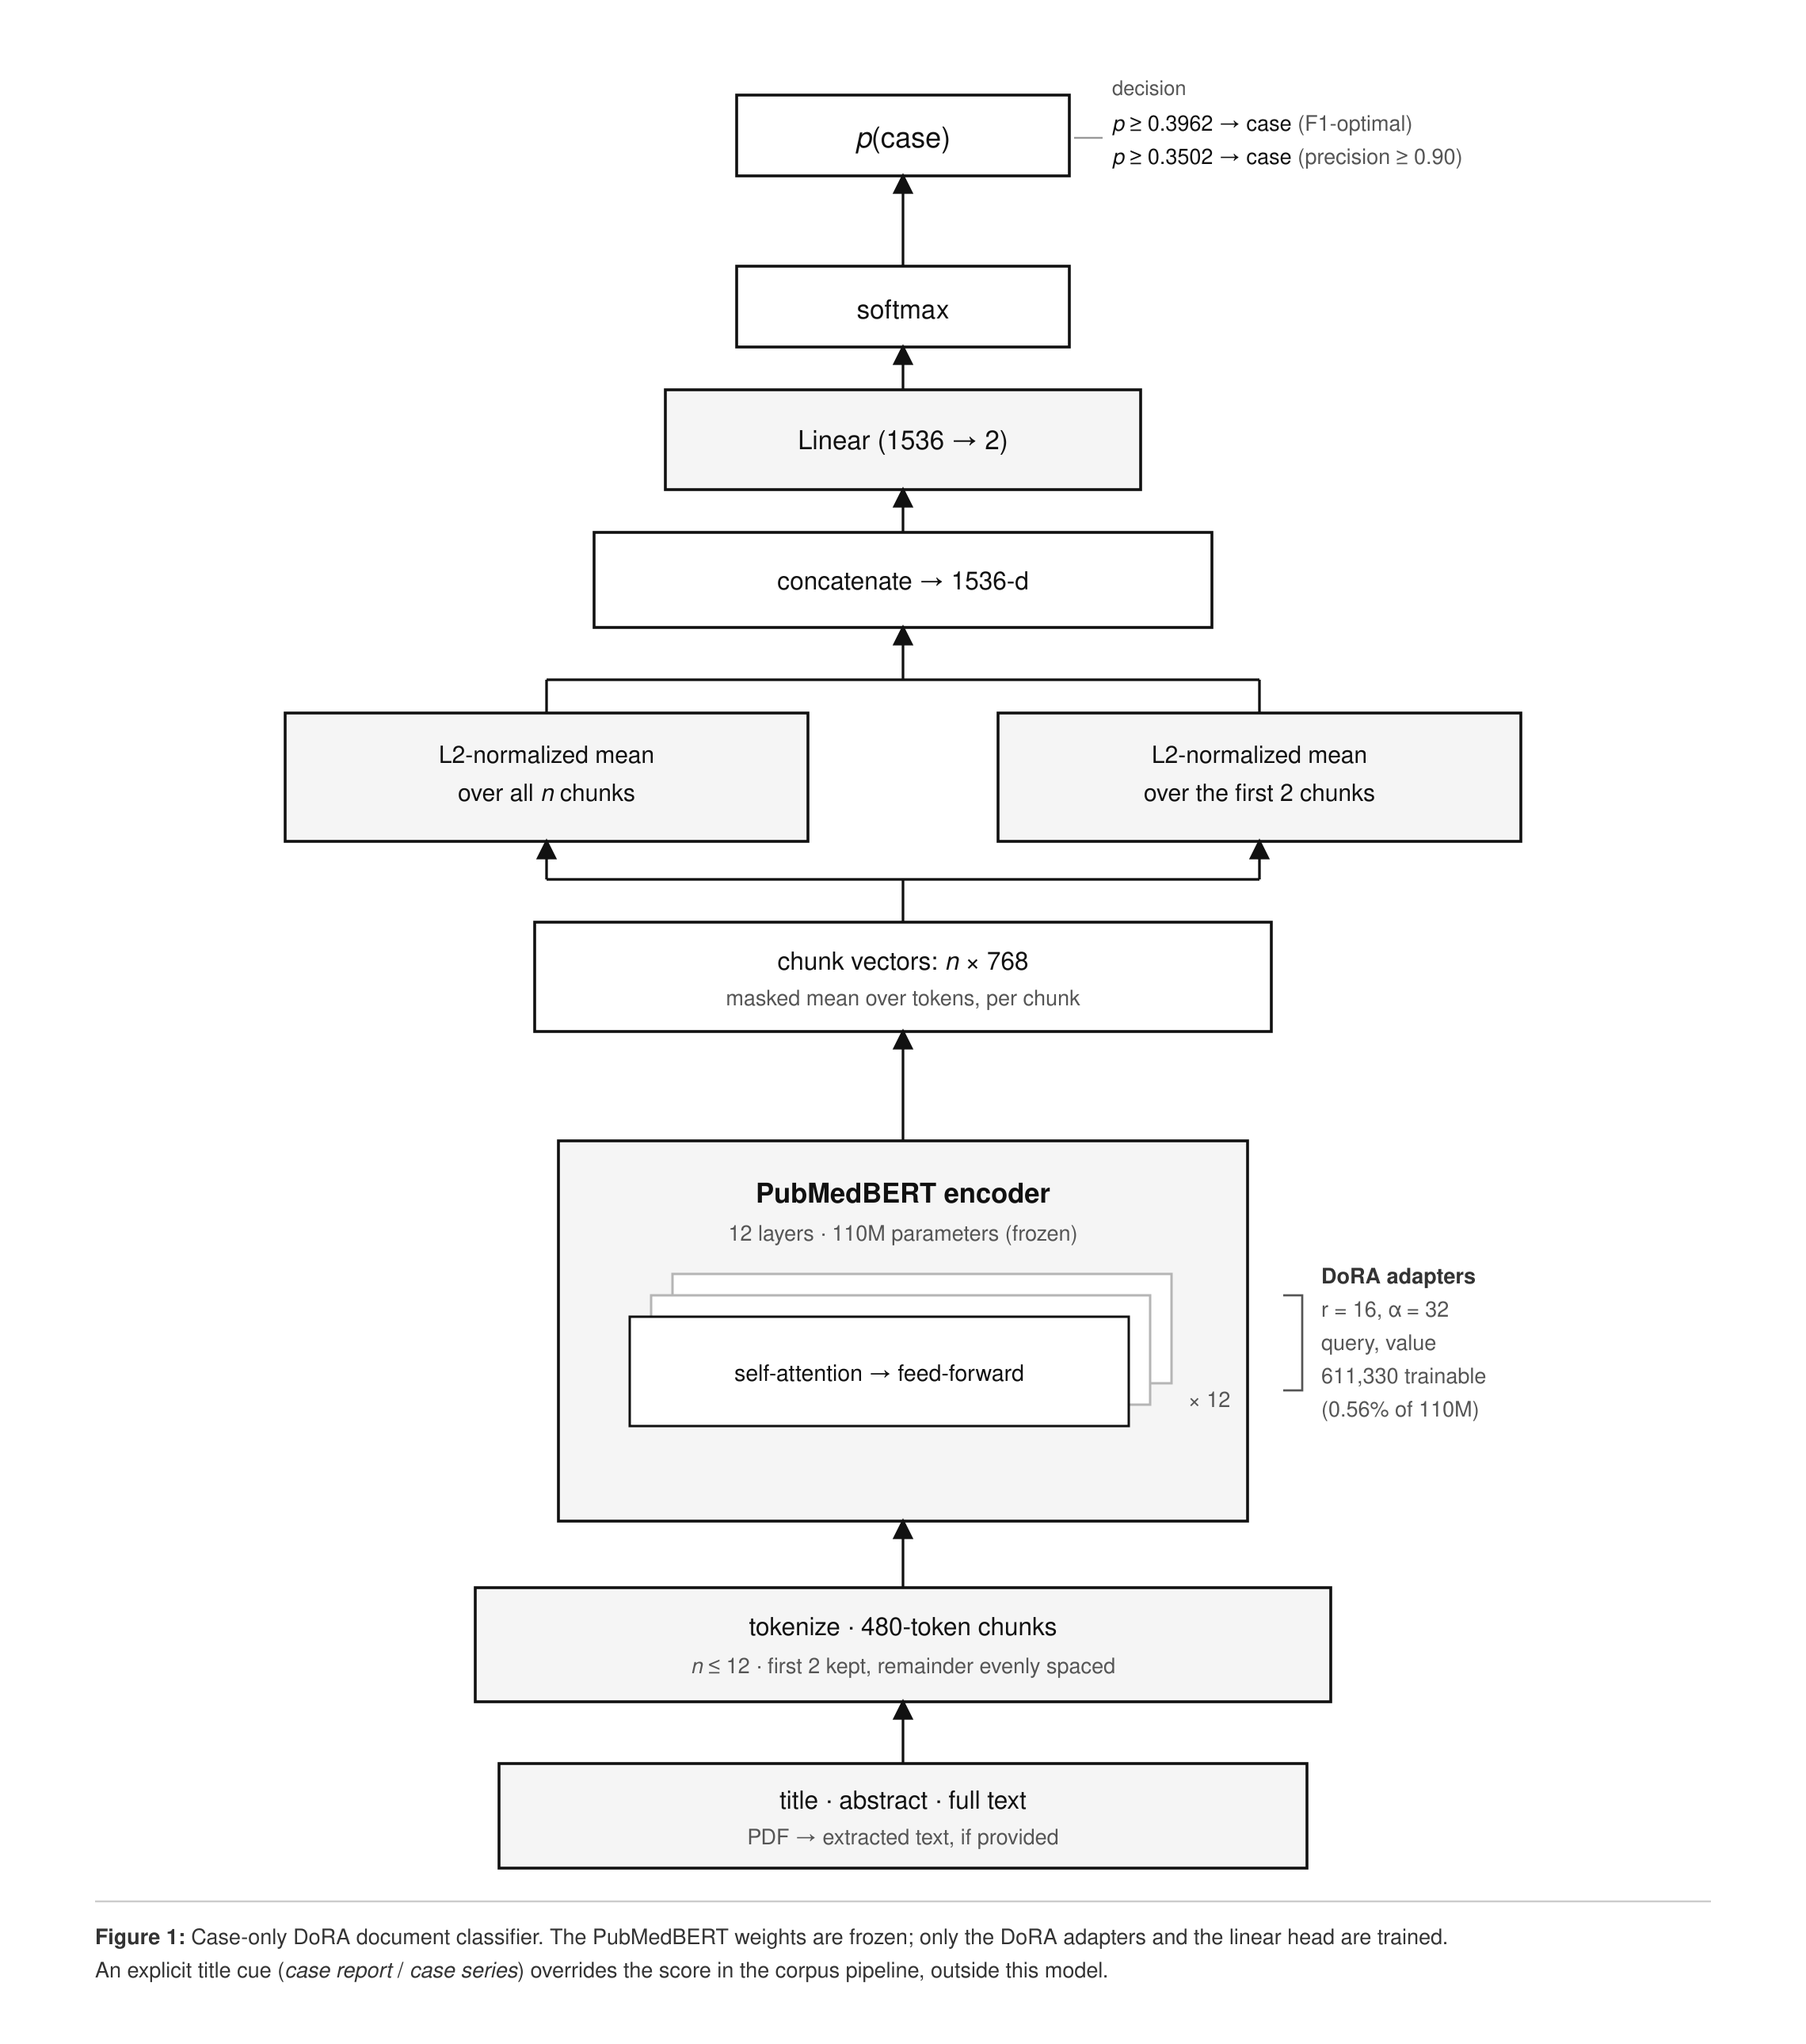
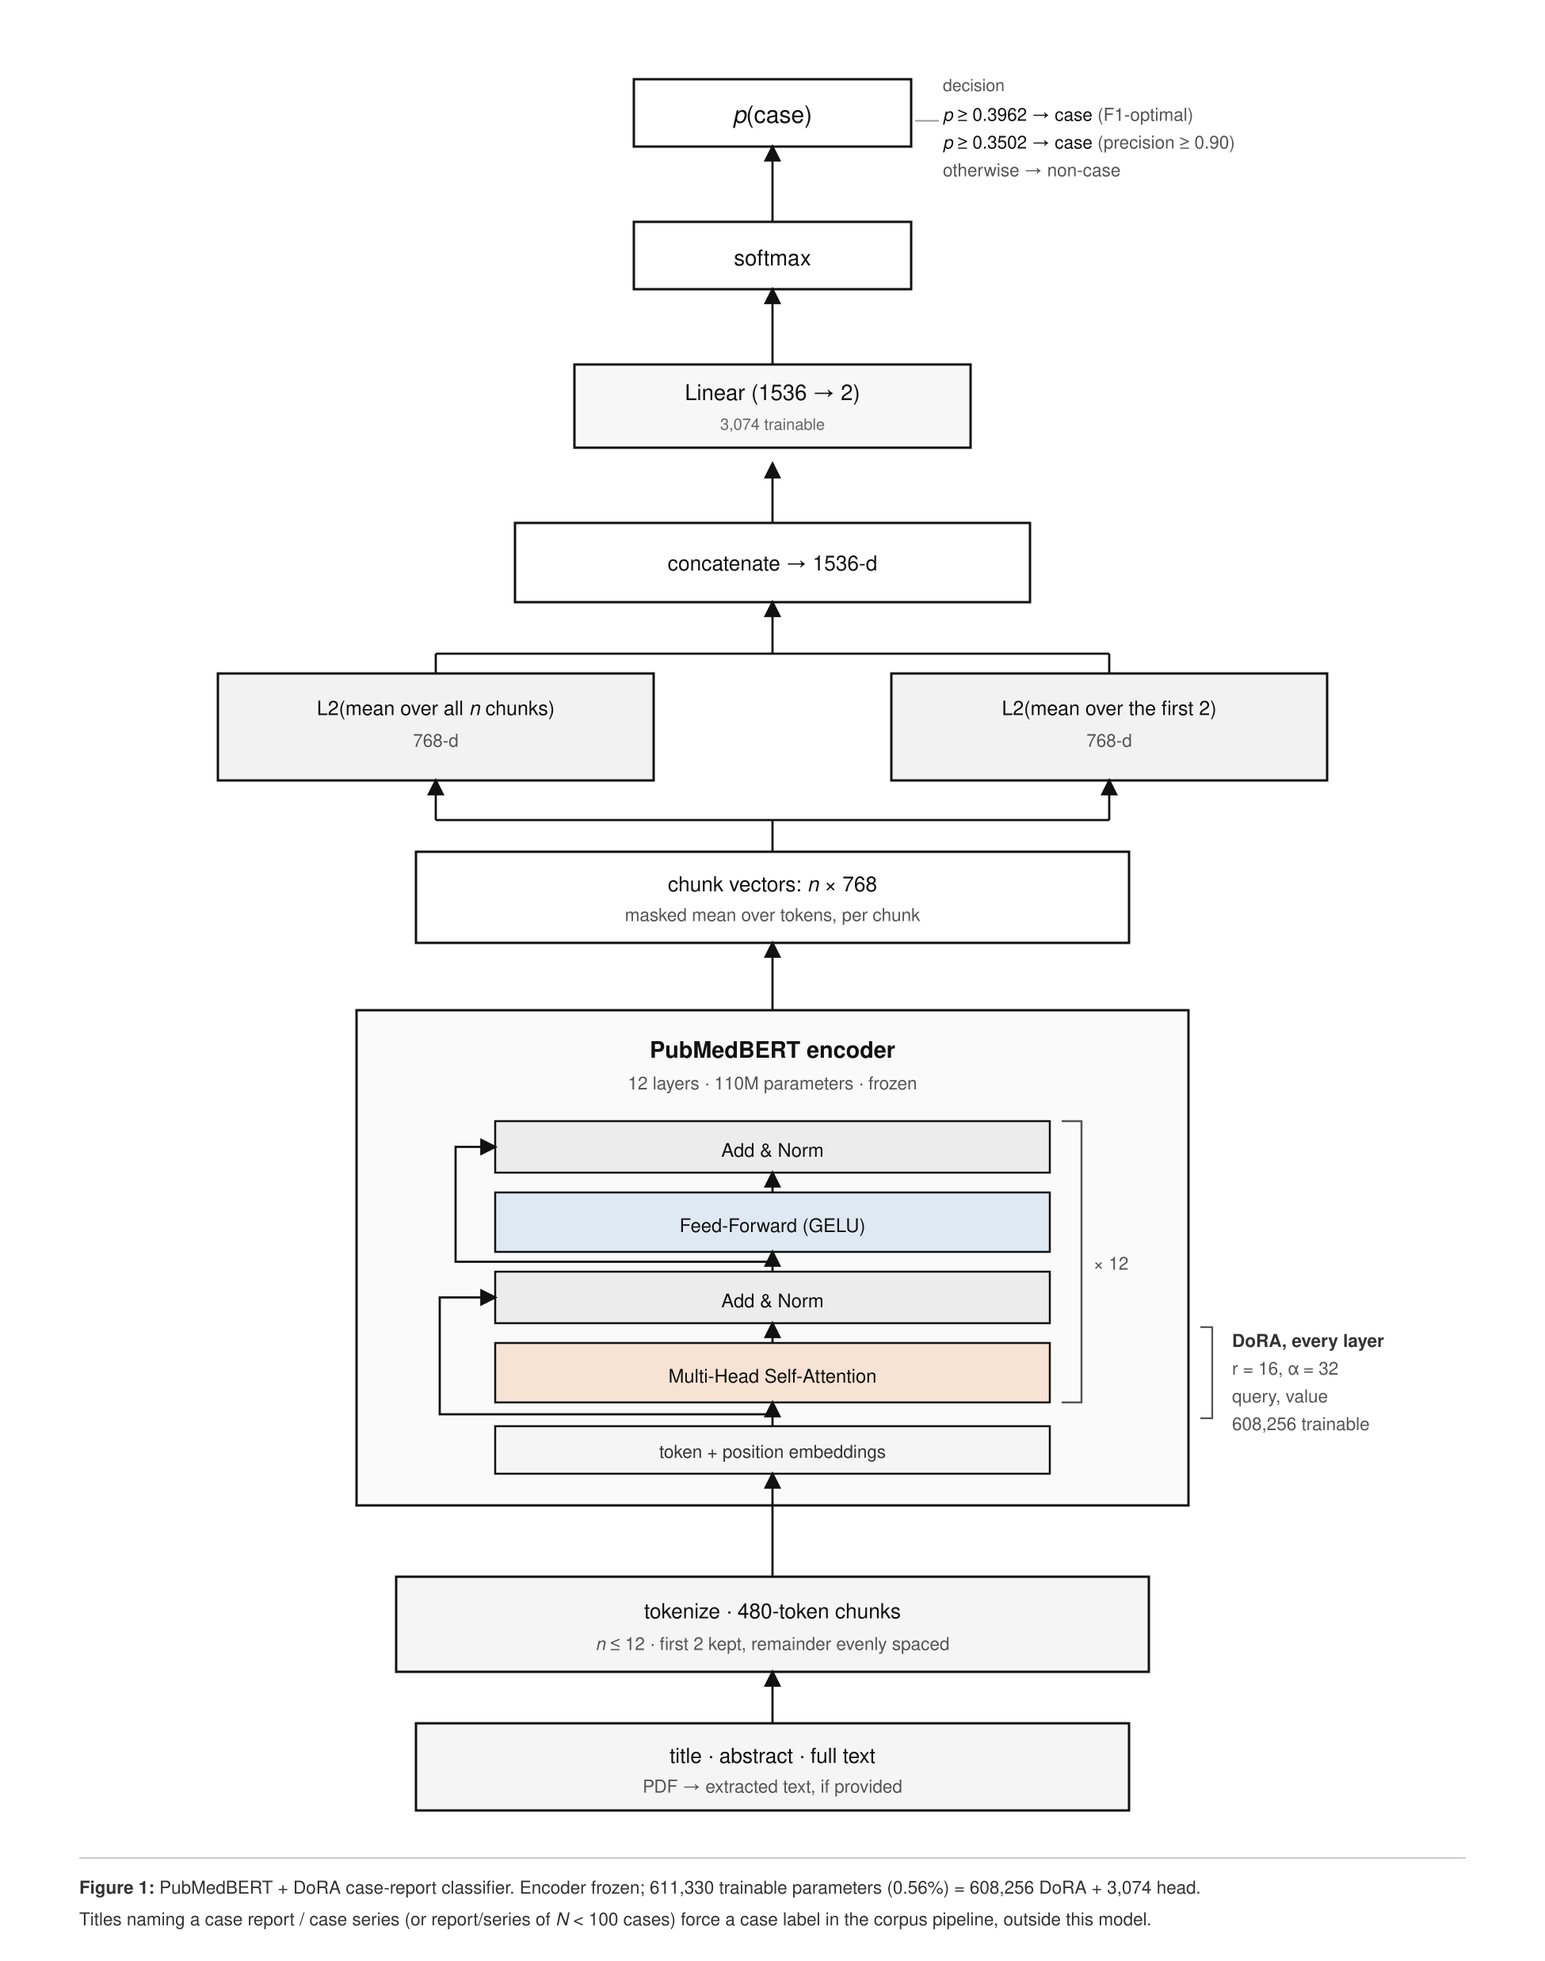
docs(arch): correct DoRA parameter split and expose encoder layer internals
- DoRA annotation: 608,256 adapters + 3,074 head = 611,330 trainable, attached to self-attention, every layer.
- Encoder: token/position embeddings, MHSA, Add & Norm, GELU feed-forward, Add & Norm with residual taps drawn correctly.
- Decision block: added the non-case branch; caption states the title guard forces a case label and lists N<100 cases.
- README and model card state the parameter split.

diff --git a/README.md b/README.md
@@ -633,11 +633,12 @@ OOF（部署阈值 0.3962）：TP 356 / FP 22 / FN 20 / TN 466，P 0.942 / R 0.9
 
 ### 4.5 架构图
 
-![Case-only DoRA model architecture](artifacts/canvas/model-architecture.png)
+![Figure 1: PubMedBERT + DoRA case-report classifier](artifacts/canvas/model-architecture.png)
 
 单次前向：题目/摘要与全文拼接 → 480 token 切块（≤12 块，前 2 块保留，其余均匀抽样）→
-每块过 PubMedBERT（DoRA 挂在 `query`/`value`，可训 611,330 / 110,093,570 = 0.56%）→
-块向量 masked mean 后取 `L2(mean_all) ‖ L2(mean_first_2)` → 1536-d → 线性头 → `p(case)`。
+每块过 PubMedBERT（DoRA 挂在 `query`/`value`，可训 611,330 / 110,093,570 = 0.56%，
+其中 DoRA 608,256 + 分类头 3,074）→ 块向量 masked mean 后取 `L2(mean_all) ‖ L2(mean_first_2)`
+→ 1536-d → 线性头 → `p(case)`。
 训练/推理共用同一分块与池化协议（"fair"）；阈值 0.3962 为 OOF F1 最优点，0.3502 为 P≥0.90 点。
 标题显式含 `case report` / `case series` 的保护规则在语料流水线里，**不在 checkpoint 内**。
 

diff --git a/artifacts/hf_upload/case_dora/README.md b/artifacts/hf_upload/case_dora/README.md
@@ -36,7 +36,7 @@ This is a **research artifact**, not a clinical decision tool.
 | Adapter | DoRA (PEFT), r=16, α=32, target `query` / `value` |
 | Document encoding | 480-token chunks, max 12 chunks, keep first 2; `L2(mean_all) ‖ L2(mean_first_2)` → 1536-d |
 | Head | linear 1536 → 2 |
-| Trainable params | 611,330 / 110,093,570 (0.56%) |
+| Trainable params | 611,330 / 110,093,570 (0.56%): 608,256 DoRA + 3,074 head |
 | Decision threshold | **0.3962** (F1-optimal on out-of-fold scores) |
 | High-precision threshold | **0.3502** (P ≥ 0.90) |
 
